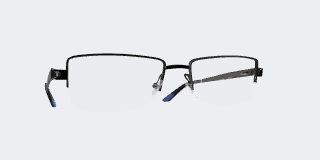
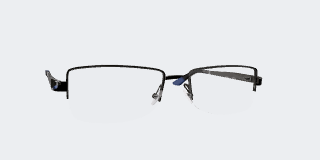
Fit arms to the ears and lower the frames (Checkpoint B feedback)
Profile views with the debug overlay showed the real ear starts just behind
the face mesh's back edge, ~2 cm in front of where the ear occluder was, and
that frames sat ~1 cm higher than real glasses.

- CONFIG.ear.rootCm: one shared ear-root point (top of the ear) used by both
  the arm fit and the ear occluder, so they always agree
- Arms are aimed per model: their height is measured at the ear after
  stretching and tilted onto the ear root (works for any hinge height or
  arm shape); replaces the fixed 7-degree slope
- Arm length 14 -> 11.5 cm so tips curl down behind the ear, not past it
- Lens centres sit 0.6 cm below the pupils, like glasses resting on the nose
- 'Look at the camera' hint waits 800 ms (no flashing at steep angles)
- Thumbnails re-rendered with the new arm shapes

Claude-Session: https://claude.ai/code/session_019vc9k68esawVbujnA8uCQS

Changed region(s): [[0.125, 0.3125, 0.8438, 0.6875]]

diff --git a/src/lib/glassesFit.ts b/src/lib/glassesFit.ts
@@ -66,7 +66,11 @@ export function computeGlassesFit(model: THREE.Object3D, entry: GlassesModel): G
   const face = getCanonicalFace();
   const eyes = eyeCentre(face);
   const bridge = face.vertices[LANDMARK.noseBridge] ?? eyes;
-  const target = new THREE.Vector3(0, eyes.y, bridge.z + CONFIG.glasses.frontGapFromNoseBridgeCm);
+  const target = new THREE.Vector3(
+    0,
+    eyes.y - CONFIG.glasses.lensCentreBelowEyesCm,
+    bridge.z + CONFIG.glasses.frontGapFromNoseBridgeCm,
+  );
 
   // position = target - (scaled model point that should land on target)
   const anchor = new THREE.Vector3(frontCentre.x, frontCentre.y, bounds.max.z).multiplyScalar(scale);
@@ -85,21 +89,18 @@ export function computeGlassesFit(model: THREE.Object3D, entry: GlassesModel): G
  *     in around the hinge, so they run straight back along the head;
  *  1. stretch/shrink them along the head to a standard length, because artists'
  *     arms vary a lot (some end before the ear, some far behind it);
- *  2. angle them slightly downwards, because rigid models have arms perpendicular
- *     to the front, and our pantoscopic tilt would otherwise point them up, above
- *     the ear. Real arms run back and slightly down to the top of the ear.
+ *  2. angle them so they pass just over the ear root (CONFIG.ear). Hinges sit at
+ *     different heights on different frames, so a fixed angle can't work: each
+ *     model gets the angle that runs from its own hinge to the ear.
  * The frame front is untouched. Edits each mesh's own copy of its geometry, once.
  */
 export function bendTemplesToEars(model: THREE.Object3D, fit: GlassesFit): void {
-  const { templeLengthCm, templeSlopeDownDeg, pantoscopicTiltDeg, templeStretchRange } = CONFIG.glasses;
+  const { templeLengthCm, templeStretchRange } = CONFIG.glasses;
   const stretch = THREE.MathUtils.clamp(
     templeLengthCm / fit.templeLengthCm,
     templeStretchRange[0],
     templeStretchRange[1],
   );
-  // The tilt is applied later around the nose bridge and lifts the arms by the same
-  // angle, so the downward slope we bake in includes it.
-  const slope = Math.tan(THREE.MathUtils.degToRad(templeSlopeDownDeg + pantoscopicTiltDeg));
 
   // Model space -> face space (before tilt), as placed by computeGlassesFit.
   const modelToFace = new THREE.Matrix4().compose(
@@ -118,6 +119,7 @@ export function bendTemplesToEars(model: THREE.Object3D, fit: GlassesFit): void 
 
   const hingeHalfWidth = fit.frameWidthCm / 2; // the front is centred on x = 0
   const splayRad = measureArmSplay(meshes, fit.hingeZ, hingeHalfWidth);
+  const slope = armSlopeToEar(meshes, fit.hingeZ, stretch);
   const point = new THREE.Vector3();
 
   for (const { mesh, meshToFace } of meshes) {
@@ -147,6 +149,61 @@ export function bendTemplesToEars(model: THREE.Object3D, fit: GlassesFit): void 
     mesh.geometry.computeBoundingBox();
     mesh.geometry.computeBoundingSphere();
   }
+}
+
+/**
+ * The pantoscopic tilt is applied later (in Glasses.tsx), around the nose bridge.
+ * Arms are reshaped *before* that tilt, so to aim them at the ear we first undo the
+ * tilt on the ear's position: "where will the ear be, in the untilted frame?".
+ */
+export function tiltPivot(): THREE.Vector3 {
+  const face = getCanonicalFace();
+  return (face.vertices[LANDMARK.noseBridge] ?? eyeCentre(face)).clone();
+}
+
+/**
+ * Downward slope (drop in cm per cm travelled back) that brings the arms down onto
+ * the ear root. We measure how high the arms already are where the ear is (after
+ * stretching), and tilt them by exactly the amount that moves that height onto the
+ * ear. Measuring at the ear (not at the hinge) works for any arm shape: straight,
+ * already sloping, or curved, and ignores chunky frame fronts near the hinge.
+ */
+function armSlopeToEar(
+  meshes: { mesh: THREE.Mesh; meshToFace: THREE.Matrix4 }[],
+  hingeZ: number,
+  stretch: number,
+): number {
+  const EAR_ZONE_HALF_DEPTH_CM = 1; // arm vertices within ±1 cm of the ear (front to back)
+  const MAX_SLOPE = Math.tan(THREE.MathUtils.degToRad(30)); // guard against odd models
+
+  // Ear root, moved into the untilted frame (rotate by -tilt about the pivot).
+  const [, earY, earZ] = CONFIG.ear.rootCm;
+  const pivot = tiltPivot();
+  const ear = new THREE.Vector3(0, earY + CONFIG.ear.armRestHeightCm, earZ)
+    .sub(pivot)
+    .applyAxisAngle(new THREE.Vector3(1, 0, 0), -THREE.MathUtils.degToRad(CONFIG.glasses.pantoscopicTiltDeg))
+    .add(pivot);
+  const earBehindHinge = hingeZ - ear.z;
+
+  // Average height of the (stretched) arms around the ear.
+  const point = new THREE.Vector3();
+  let sumY = 0;
+  let count = 0;
+  for (const { mesh, meshToFace } of meshes) {
+    const positions = mesh.geometry.getAttribute('position');
+    for (let i = 0; i < positions.count; i++) {
+      point.fromBufferAttribute(positions, i).applyMatrix4(meshToFace);
+      const behind = (hingeZ - point.z) * stretch;
+      if (behind > 0 && Math.abs(behind - earBehindHinge) <= EAR_ZONE_HALF_DEPTH_CM) {
+        sumY += point.y;
+        count++;
+      }
+    }
+  }
+  if (count === 0) return 0;
+  const armYAtEar = sumY / count;
+  const slope = (armYAtEar - ear.y) / earBehindHinge;
+  return THREE.MathUtils.clamp(slope, -MAX_SLOPE, MAX_SLOPE);
 }
 
 /**

diff --git a/src/lib/config.ts b/src/lib/config.ts
@@ -58,27 +58,45 @@ export const CONFIG = {
     devicePixelRatioRange: [1, 2] as [number, number],
   },
 
+  // Where the ears are on the canonical face (cm; +X = person's left, +Y = up,
+  // +Z = towards the camera; eye centre is at y ≈ 2.6, nose tip at z ≈ 7.6).
+  // MediaPipe has no ear landmarks, so this is a fixed average position, checked
+  // against real profile views: the ear starts just behind the back edge of the
+  // face mesh (z ≈ -2.4), with its top at about eye level.
+  ear: {
+    // "Ear root": where the top of the ear joins the head; temple arms rest here.
+    // Arms pass over the ear above this point, then their tips go behind the ear.
+    // Raise Y if arms cut through the ear; lower it if they float above it.
+    // Move Z back (more negative) if arm tips vanish before reaching the ear.
+    rootCm: [7.2, 2.8, -3.2] as [number, number, number],
+    // How far above the ear root the middle of the arm passes (about half its thickness).
+    armRestHeightCm: 0.25,
+    // Size of the invisible ear shape (half-width out from the head, half-height,
+    // half-depth). Its top is just under the ear root and its front at the root.
+    occluderRadiiCm: [1.0, 3.0, 2.1] as [number, number, number],
+  },
+
   glasses: {
     // Draco decoder for compressed .glb files, served locally (drei would use a CDN).
     dracoDecoderPath: '/draco/',
     // How far in front of the nose-bridge skin the front of the frame sits, in cm.
     // Bigger = glasses float further from the face.
     frontGapFromNoseBridgeCm: 0.6,
+    // Real glasses rest on the nose with the lens centres a little below the
+    // pupils. Bigger = glasses sit lower on the face.
+    lensCentreBelowEyesCm: 0.6,
     // Real glasses tilt slightly, with the lower rims closer to the cheeks
     // ("pantoscopic tilt"), and this tilt is added to every model. Positive = lower rims move in.
     pantoscopicTiltDeg: 6,
     // Temple arm length from hinge to tip, in cm. Every model's arms are stretched or
-    // shrunk to this so they reach just behind the ear. Real arms are ~13.5-15 cm.
-    // Increase if arm tips stop in front of the ear; decrease if they reach too far back.
-    templeLengthCm: 14,
+    // shrunk to this so they reach over the ear root and a few cm behind it.
+    // Increase if arm tips stop on top of the ear; decrease if they poke out behind it.
+    templeLengthCm: 11.5,
     // Limits on that stretch, so an unusual model can't be distorted too much.
     templeStretchRange: [0.7, 1.5] as [number, number],
     // Arms modelled opened outwards by more than this (degrees) are swung back in
     // so they run along the head instead of sticking out behind the ears.
     minArmSplayToFixDeg: 2,
-    // How much the arms slope down from the hinge towards the ear (degrees).
-    // Increase if arms pass above the ears; decrease if they pass below.
-    templeSlopeDownDeg: 7,
     // Fraction of a model's depth (front to temple tips) that counts as "the frame
     // front". Its width is the frame width and its centre goes on the eyes. Using
     // only the front means temple arms (which may splay wider or droop) are ignored.
@@ -113,10 +131,7 @@ export const CONFIG = {
     // frame front).
     skullCentre: [0, 2, -4] as [number, number, number],
     skullRadii: [6.8, 9, 8] as [number, number, number],
-    // One flattened ellipsoid per ear (mirrored for the other side). The arm tips
-    // pass behind these. Raise earCentre's Y if arm tips still show behind the ears.
-    earCentre: [7.4, 0.3, -6.8] as [number, number, number],
-    earRadii: [0.9, 2.8, 2.2] as [number, number, number],
+    // Ears: see CONFIG.ear (shared with the arm fitting, so both always agree).
   },
 
   // Lighting of the glasses. "Adaptive" = follows the brightness and colour of the
@@ -163,6 +178,11 @@ export const CONFIG = {
     // How often the on-screen stats panel refreshes (per second). Refreshing
     // less often keeps the panel readable and costs almost nothing.
     panelRefreshHz: 4,
+  },
+
+  ui: {
+    // How long the face must be lost before "Look at the camera" appears (ms).
+    faceHintDelayMs: 800,
   },
 
   debug: {

diff --git a/src/App.tsx b/src/App.tsx
@@ -34,6 +34,9 @@ export default function App() {
   // One monitor for the app's lifetime: the frame loop writes to it, the panel reads it.
   const [monitor] = useState(() => new PerformanceMonitor());
   const [faceVisible, setFaceVisible] = useState(false);
+  // The "look at the camera" hint waits a moment before appearing: at steep
+  // angles tracking can drop for a frame or two, and a flashing hint looks broken.
+  const [showFaceHint, setShowFaceHint] = useState(false);
   // Bumping this re-runs the start-up effect ("Try again" button).
   const [attempt, setAttempt] = useState(0);
 
@@ -106,6 +109,15 @@ export default function App() {
     return () => window.removeEventListener('keydown', onKeyDown);
   }, []);
 
+  useEffect(() => {
+    if (faceVisible) return;
+    const timer = window.setTimeout(() => setShowFaceHint(true), CONFIG.ui.faceHintDelayMs);
+    return () => {
+      window.clearTimeout(timer);
+      setShowFaceHint(false); // face is back: hide the hint (and restart the delay next time)
+    };
+  }, [faceVisible]);
+
   const retry = () => {
     setStatus({ kind: 'starting-camera' });
     setAttempt((n) => n + 1);
@@ -172,7 +184,7 @@ export default function App() {
               Debug
             </button>
           </div>
-          {!faceVisible && <p className="face-hint">Look at the camera to try on glasses</p>}
+          {showFaceHint && <p className="face-hint">Look at the camera to try on glasses</p>}
           <div className="bottom-bar">
             {selectedModel && (
               // CC-BY models must credit their authors; doing it where the model is shown.

diff --git a/src/components/HeadOccluder.tsx b/src/components/HeadOccluder.tsx
@@ -12,6 +12,8 @@ import { CONFIG } from '../lib/config.ts';
 // Drawn after the video background (-1000) and before the glasses (0).
 const OCCLUDER_RENDER_ORDER = -1;
 const SPHERE_SEGMENTS = 24;
+// Ears stick out from the head: the shape's centre is pushed out by this fraction of its half-width.
+const EAR_OUTSIDE_HEAD_FRACTION = 0.3;
 
 /**
  * Copy of the canonical face whose sides (behind the cheeks) are pulled in a bit,
@@ -68,8 +70,16 @@ export default function HeadOccluder({ visibleForDebug }: { visibleForDebug: boo
   );
   useEffect(() => () => shadowMaterial.dispose(), [shadowMaterial]);
 
-  const { skullCentre, skullRadii, earCentre, earRadii } = CONFIG.occluder;
-  const [earX, earY, earZ] = earCentre;
+  const { skullCentre, skullRadii } = CONFIG.occluder;
+  // Ear shape placed from the shared ear root: top just under the root (so the arm
+  // stays visible as it passes over the ear) and front at the root (so the part of
+  // the arm behind the ear, and its tip, are hidden).
+  const [rootX, rootY, rootZ] = CONFIG.ear.rootCm;
+  const earRadii = CONFIG.ear.occluderRadiiCm;
+  const [earRadiusX, earRadiusY, earRadiusZ] = earRadii;
+  const earX = rootX + earRadiusX * EAR_OUTSIDE_HEAD_FRACTION;
+  const earY = rootY - earRadiusY;
+  const earZ = rootZ - earRadiusZ;
   return (
     <group>
       <mesh geometry={faceGeometry} material={material} renderOrder={OCCLUDER_RENDER_ORDER} />

diff --git a/src/components/Glasses.tsx b/src/components/Glasses.tsx
@@ -5,10 +5,10 @@
 import { useGLTF } from '@react-three/drei';
 import { useMemo } from 'react';
 import * as THREE from 'three';
-import { eyeCentre, getCanonicalFace, LANDMARK } from '../lib/canonicalFace.ts';
+import { getCanonicalFace, LANDMARK } from '../lib/canonicalFace.ts';
 import type { GlassesModel } from '../lib/catalog.ts';
 import { CONFIG } from '../lib/config.ts';
-import { bendTemplesToEars, computeGlassesFit } from '../lib/glassesFit.ts';
+import { bendTemplesToEars, computeGlassesFit, tiltPivot as getTiltPivot } from '../lib/glassesFit.ts';
 import { prepareGlassesMaterials } from '../lib/materials.ts';
 
 interface GlassesProps {
@@ -33,12 +33,10 @@ export default function Glasses({ model, showContactShadow = true }: GlassesProp
       object.material = materialCopies.get(original);
       object.geometry = object.geometry.clone(); // the arms get reshaped below
     });
-    const face = getCanonicalFace();
-    const bridge = face.vertices[LANDMARK.noseBridge] ?? eyeCentre(face);
     const fit = computeGlassesFit(scene, model);
     bendTemplesToEars(scene, fit);
     prepareGlassesMaterials(scene, model, fit.scale);
-    return { scene, fit, tiltPivot: bridge.clone() };
+    return { scene, fit, tiltPivot: getTiltPivot() };
   }, [gltf, model]);
 
   // The tilt pivots around the nose bridge, like real glasses resting on the nose.
